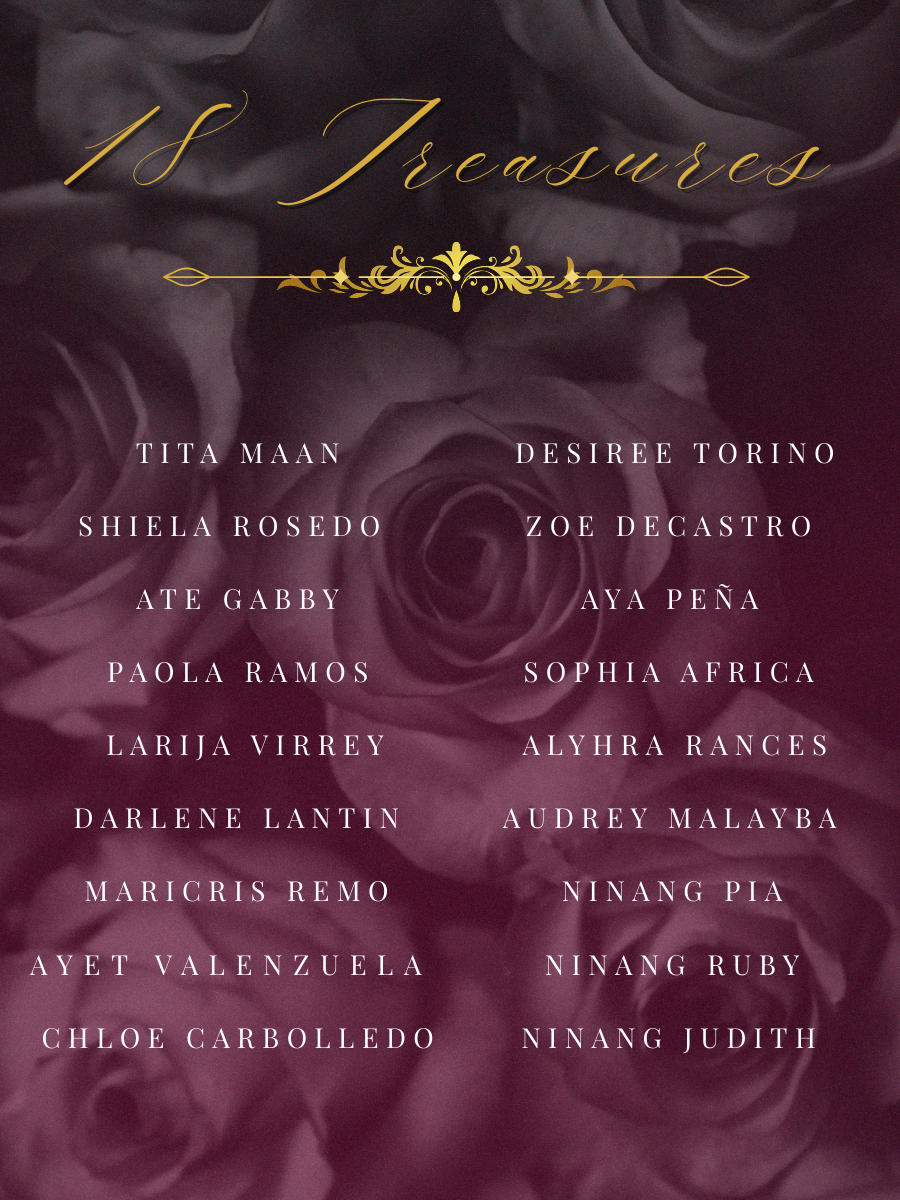
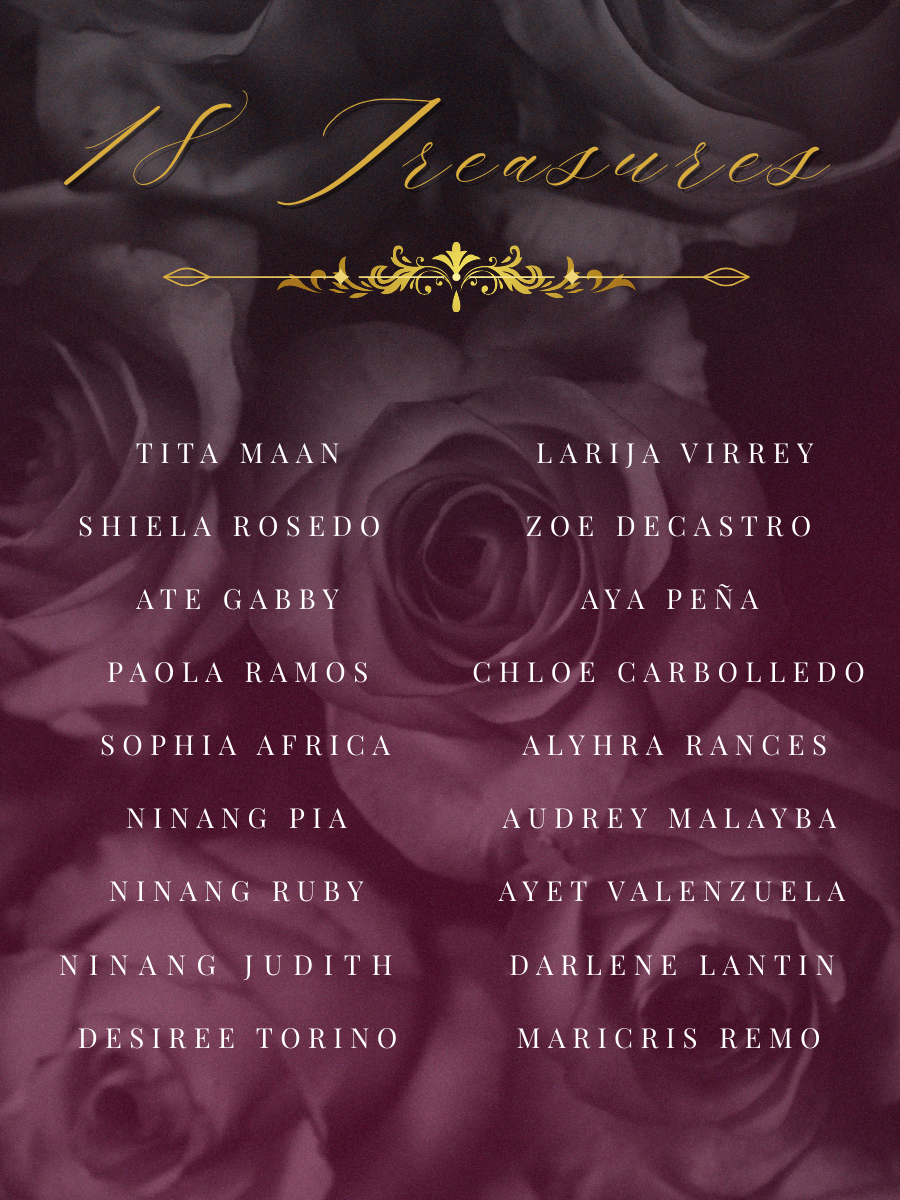
Added Adjustments

diff --git a/style.css b/style.css
@@ -108,7 +108,7 @@ Font Colors
     flex-direction: column;
 
     color: white;
-    background: linear-gradient(180deg,rgba(87, 25, 53, 1) 5%, rgba(0, 0, 0, 1) 20%);   
+    background: linear-gradient(180deg,rgba(69, 0, 17, 1) 20%, rgba(0, 0, 0, 1) 50%, rgba(69, 0, 17, 1) 70%);  
 }
 
 .venue-header{
@@ -270,7 +270,9 @@ Font Colors
     justify-content: center;
     align-items: center;
 
-    background-color: #450011;
+    background-image: url('Attire-Background.png');
+    background-size: cover;
+    background-position: center;
     color: white;
 }
 
